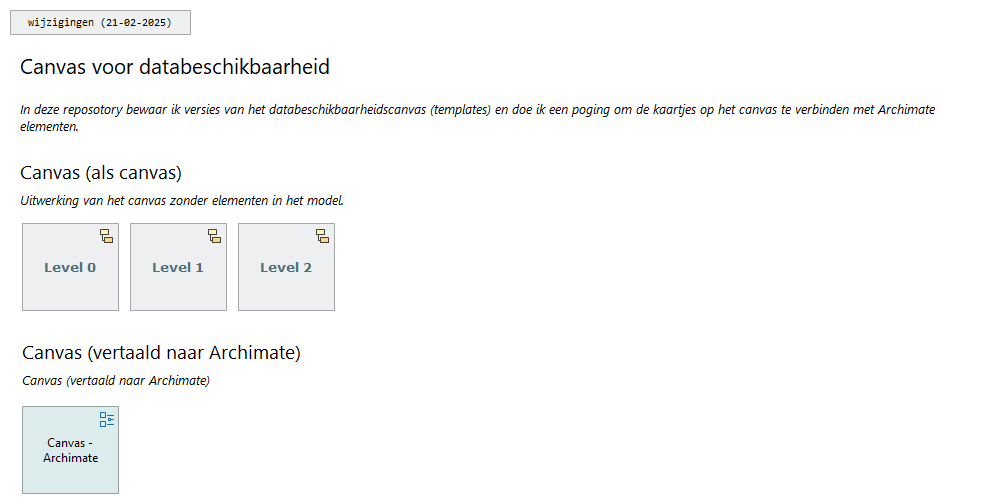
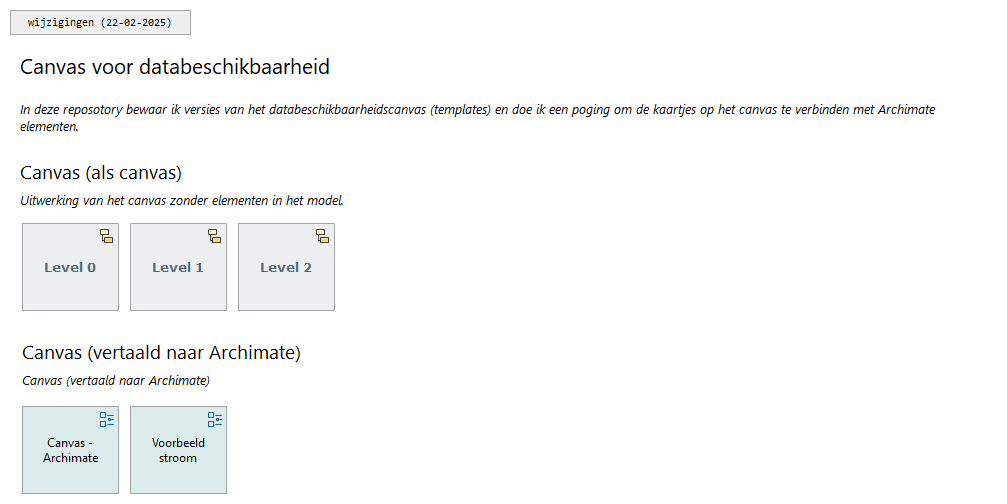
update

Changed region(s): [[0.1231, 0.8036, 0.2463, 0.9821]]

diff --git a/docs/id-901b484ba6df4d668369c0cd3e7bc84b/views/id-714bbcf242d44ac9856e965777e7eece.html b/docs/id-901b484ba6df4d668369c0cd3e7bc84b/views/id-714bbcf242d44ac9856e965777e7eece.html
@@ -32,6 +32,8 @@
 		    <!-- If this is a digram model (has children and no bounds) show the image -->
 			   <img class="diagram" src="../images/id-714bbcf242d44ac9856e965777e7eece.png" alt="Start" usemap="#id-714bbcf242d44ac9856e965777e7eecemap"/>
 			   <map name="id-714bbcf242d44ac9856e965777e7eecemap">
+				  		<area shape="rect" coords="130,406,227,494" href="../views/id-b6c5808509274049a7b7b69438bddf1f.html"  target="view">
+				      <!-- Other diagram objects -->
 				  		<area shape="rect" coords="22,406,119,494" href="../views/id-5c18683dc9b64c39894d9197566e0a6e.html"  target="view">
 				      <!-- Other diagram objects -->
 				  		<area shape="rect" coords="238,223,335,311" href="../views/id-8217dc102ed0425f96bda6523158b8e8.html"  target="view">
@@ -139,7 +141,7 @@
 									        </tr>
 
 									        <tr>
-									           <td> <a href="../objects/id-1fec20b087a14a759a5ec7937d762347.html" target="element"> wijzigingen (21-02-2025) </a> </td>
+									           <td> <a href="../objects/id-1fec20b087a14a759a5ec7937d762347.html" target="element"> wijzigingen (22-02-2025) </a> </td>
 									           <td> <a href="../objects/id-1fec20b087a14a759a5ec7937d762347.html" target="element" class="i18n-elementtype-DiagramModelGroup"> </a> </td>
 									        </tr>
 
@@ -177,6 +179,12 @@
 											</tr>
 									    <!-- Other graphical objects -->
 
+											<tr>
+											    <td> <a href="../views/id-b6c5808509274049a7b7b69438bddf1f.html" target="view"> Voorbeeld stroom </a> </td>
+											    <td> <a href="../views/id-b6c5808509274049a7b7b69438bddf1f.html" target="view" class="i18n-viewpoint-"> </a> </td>
+											</tr>
+									    <!-- Other graphical objects -->
+
 
 								</tbody>
 							</table>
@@ -199,6 +207,7 @@
 											<!-- DEBUG: Skipping element from class com.archimatetool.model.impl.DiagramModelGroup -->
 											<!-- DEBUG: Skipping element from class com.archimatetool.model.impl.SketchModelSticky -->
 											<!-- DEBUG: Skipping element from class com.archimatetool.model.impl.SketchModelSticky -->
+											<!-- DEBUG: Skipping element from class com.archimatetool.model.impl.DiagramModelReference -->
 											<!-- DEBUG: Skipping element from class com.archimatetool.model.impl.DiagramModelReference -->
 											<!-- DEBUG: Skipping element from class com.archimatetool.model.impl.DiagramModelReference -->
 											<!-- DEBUG: Skipping element from class com.archimatetool.model.impl.DiagramModelReference -->

diff --git a/docs/id-901b484ba6df4d668369c0cd3e7bc84b/objects/id-1fec20b087a14a759a5ec7937d762347.html b/docs/id-901b484ba6df4d668369c0cd3e7bc84b/objects/id-1fec20b087a14a759a5ec7937d762347.html
@@ -2,7 +2,7 @@
 <html class="frame" lang="en">
 <head>
 	<meta http-equiv="Content-Type" content="text/html;charset=utf-8">
-	<title>wijzigingen (21-02-2025)</title>
+	<title>wijzigingen (22-02-2025)</title>
 
 	<!-- JQUERY -->
 	<script type="text/javascript" src="../../lib/jquery/jquery.min.js"></script>
@@ -21,7 +21,7 @@
 
 		<div class="panel-heading root-panel-heading">
             <!-- Name -->
-               <b>wijzigingen (21-02-2025)</b>
+               <b>wijzigingen (22-02-2025)</b>
 
             <!-- If a View with Viewpoint -->
 			   (<span class="i18n-elementtype-DiagramModelGroup"></span>)
@@ -47,7 +47,10 @@
 				<!-- Tab panes -->
 				<div class="tab-content">
 					<div role="tabpanel" class="tab-pane active" id="documentation">
-						<div class="convertlinks documentation" style="white-space:pre-wrap">21-02-2025
+						<div class="convertlinks documentation" style="white-space:pre-wrap">22-02-2025
+- Fictieve voorbeeldstroom toegevoegd
+
+21-02-2025
 - Canvas toegevoegd
 - Archimate vertaling toegevoegd
 

diff --git a/docs/id-901b484ba6df4d668369c0cd3e7bc84b/elements/model.html b/docs/id-901b484ba6df4d668369c0cd3e7bc84b/elements/model.html
@@ -646,6 +646,7 @@
 													dataViewsContent.push({viewid:"id-714bbcf242d44ac9856e965777e7eece", contentid:"id-5f86d01f4ee842ec859001388f67dec6", contenttype:"SketchModel"});
 													dataViewsContent.push({viewid:"id-714bbcf242d44ac9856e965777e7eece", contentid:"id-8217dc102ed0425f96bda6523158b8e8", contenttype:"SketchModel"});
 													dataViewsContent.push({viewid:"id-714bbcf242d44ac9856e965777e7eece", contentid:"id-5c18683dc9b64c39894d9197566e0a6e", contenttype:"ArchimateDiagramModel"});
+													dataViewsContent.push({viewid:"id-714bbcf242d44ac9856e965777e7eece", contentid:"id-b6c5808509274049a7b7b69438bddf1f", contenttype:"ArchimateDiagramModel"});
 
 
 									dataFoldersContent.push({folderid:"id-6d4d8bdae02b423e815ccefb13a00b80", contentid:"id-a7a8f938b2f544b7aeefff184f3dee61", contenttype:"Folder"});
